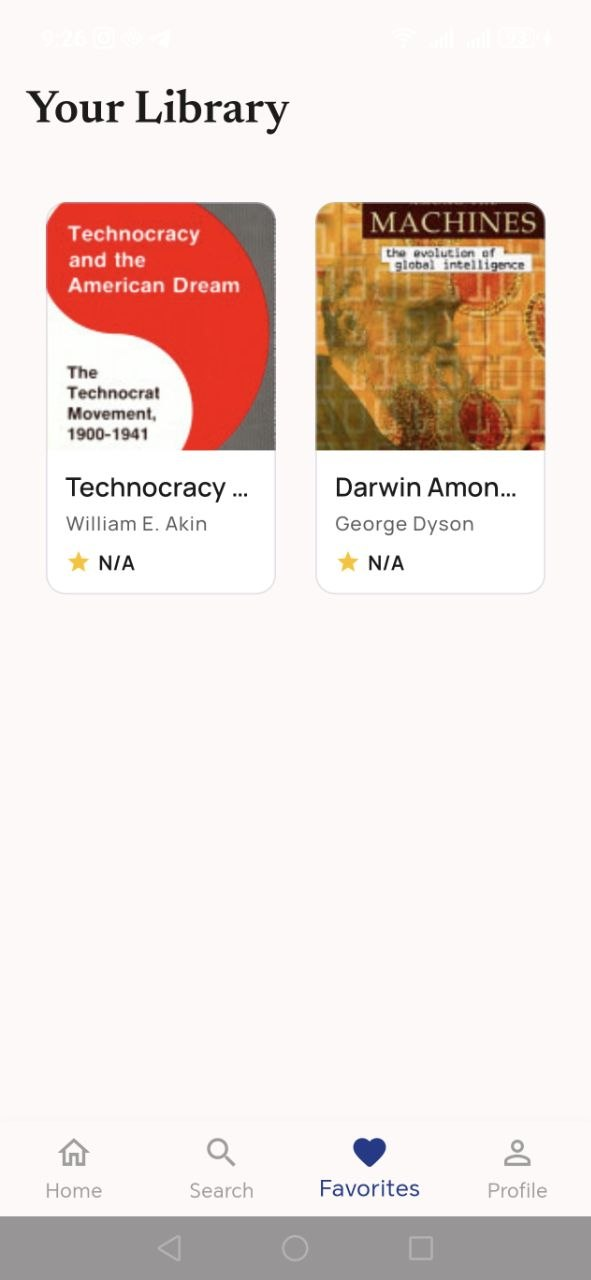
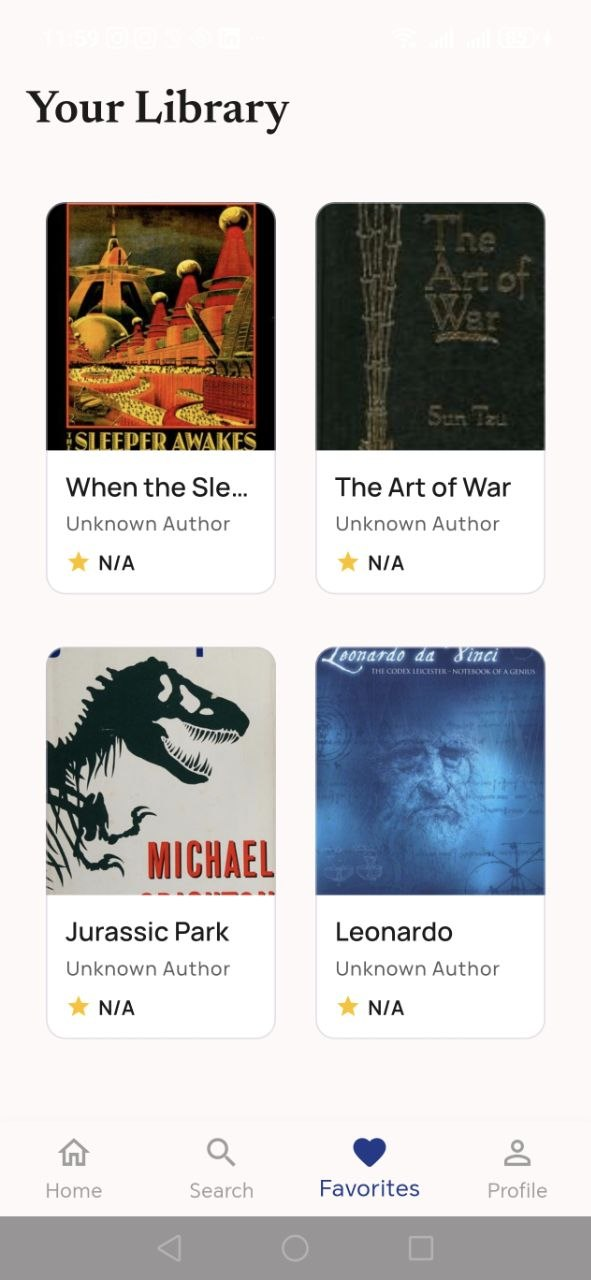
add new image

diff --git a/lib/models/book_model.dart b/lib/models/book_model.dart
@@ -20,37 +20,74 @@ class BookModel {
   });
 
   factory BookModel.fromJson(Map<String, dynamic> json) {
-    final volumeInfo = json['volumeInfo'] as Map<String, dynamic>? ?? {};
-    
-    // Parse authors
-    final authorsList = volumeInfo['authors'] as List<dynamic>? ?? [];
-    final List<String> parsedAuthors = authorsList.map((e) => e.toString()).toList();
+    // Open Library search.json format
+    final title = json['title']?.toString() ?? 'Unknown Title';
 
-    // Parse categories
-    final categoriesList = volumeInfo['categories'] as List<dynamic>? ?? [];
-    final List<String> parsedCategories = categoriesList.map((e) => e.toString()).toList();
-
-    // Parse image links
-    final imageLinks = volumeInfo['imageLinks'] as Map<String, dynamic>? ?? {};
-    String thumbnailUrl = imageLinks['thumbnail'] ?? imageLinks['smallThumbnail'] ?? '';
-    // Use https for images
-    if (thumbnailUrl.startsWith('http:')) {
-      thumbnailUrl = thumbnailUrl.replaceFirst('http:', 'https:');
+    // Parse authors - can be list of strings or list of author objects
+    List<String> parsedAuthors = [];
+    if (json['authors'] != null) {
+      final authorsList = json['authors'] as List;
+      parsedAuthors = authorsList.map((author) {
+        if (author is String) {
+          return author;
+        } else if (author is Map<String, dynamic> && author['name'] != null) {
+          return author['name'].toString();
+        }
+        return 'Unknown Author';
+      }).toList();
     }
 
-    // Parse rating
+    if (parsedAuthors.isEmpty) {
+      parsedAuthors = ['Unknown Author'];
+    }
+
+    // Parse description
+    String description = 'No description available.';
+    if (json['description'] != null) {
+      if (json['description'] is String) {
+        description = json['description'];
+      } else if (json['description'] is Map<String, dynamic>) {
+        description =
+            json['description']['value']?.toString() ??
+            'No description available.';
+      }
+    }
+
+    // Parse cover image
+    String thumbnailUrl = '';
+    if (json['cover_i'] != null) {
+      final coverId = json['cover_i'];
+      thumbnailUrl = 'https://covers.openlibrary.org/b/id/$coverId-L.jpg';
+    } else if (json['cover_edition_key'] != null) {
+      // Fallback: try to get cover by edition key (less reliable)
+      thumbnailUrl = '';
+    }
+
+    // Parse published date
+    String publishedDate = 'Unknown';
+    if (json['first_publish_year'] != null) {
+      publishedDate = json['first_publish_year'].toString();
+    } else if (json['publish_date'] != null) {
+      publishedDate = json['publish_date'].toString();
+    }
+
+    // Parse categories/subjects
+    List<String> parsedCategories = [];
+    if (json['subject'] != null) {
+      final subjectsList = json['subject'] as List;
+      parsedCategories = subjectsList.take(5).map((e) => e.toString()).toList();
+    }
+
+    // Open Library doesn't provide ratings in search results
     double parsedRating = 0.0;
-    if (volumeInfo['averageRating'] != null) {
-      parsedRating = (volumeInfo['averageRating'] as num).toDouble();
-    }
 
     return BookModel(
-      id: json['id'] ?? '',
-      title: volumeInfo['title'] ?? 'Unknown Title',
+      id: json['key']?.toString() ?? json['edition_key']?.toString() ?? '',
+      title: title,
       authors: parsedAuthors,
-      description: volumeInfo['description'] ?? 'No description available.',
+      description: description,
       thumbnail: thumbnailUrl,
-      publishedDate: volumeInfo['publishedDate'] ?? 'Unknown',
+      publishedDate: publishedDate,
       rating: parsedRating,
       categories: parsedCategories,
     );
@@ -66,10 +103,8 @@ class BookModel {
         'publishedDate': publishedDate,
         'averageRating': rating,
         'categories': categories,
-        'imageLinks': {
-          'thumbnail': thumbnail,
-        }
-      }
+        'imageLinks': {'thumbnail': thumbnail},
+      },
     };
   }
 }

diff --git a/lib/services/api_service.dart b/lib/services/api_service.dart
@@ -4,21 +4,24 @@ import '../core/constants/api_constants.dart';
 import '../models/book_model.dart';
 
 class ApiService {
-  Future<List<BookModel>> searchBooks(String query, {int startIndex = 0, int maxResults = 20}) async {
+  Future<List<BookModel>> searchBooks(
+    String query, {
+    int startIndex = 0,
+    int maxResults = 20,
+  }) async {
     try {
-      final apiKeyParam = ApiConstants.apiKey.isNotEmpty ? '&key=${ApiConstants.apiKey}' : '';
-      final uri = Uri.parse('${ApiConstants.baseUrl}${ApiConstants.volumesEndpoint}?q=$query&startIndex=$startIndex&maxResults=$maxResults$apiKeyParam');
+      final uri = Uri.parse(
+        '${ApiConstants.baseUrl}${ApiConstants.searchEndpoint}?q=$query&offset=$startIndex&limit=$maxResults',
+      );
       final response = await http.get(uri);
 
       if (response.statusCode == 200) {
         final data = json.decode(response.body);
-        if (data['items'] != null) {
-          final items = data['items'] as List;
-          return items.map((item) => BookModel.fromJson(item)).toList();
+        if (data['docs'] != null) {
+          final docs = data['docs'] as List;
+          return docs.map((doc) => BookModel.fromJson(doc)).toList();
         }
         return [];
-      } else if (response.statusCode == 429) {
-        throw Exception('Rate limit exceeded (429). Please add a Google Books API key in `api_constants.dart` or try again later.');
       } else {
         throw Exception('Failed to load books: ${response.statusCode}');
       }

diff --git a/lib/core/constants/api_constants.dart b/lib/core/constants/api_constants.dart
@@ -1,9 +1,8 @@
 class ApiConstants {
-  static const String baseUrl =
-      'https://www.googleapis.com/books/v1/volumes?q=flutter';
-  static const String volumesEndpoint = 'volumes';
+  static const String baseUrl = 'https://openlibrary.org';
+  static const String searchEndpoint = '/search.json';
+  static const String booksEndpoint = '/api/books';
 
-  // NOTE: If you experience 429 errors (Too Many Requests), provide a Google Books API key here.
-  // Leave it empty to use the unauthenticated API limit (which is very strict).
+  // OpenLibrary API does not require an API key for its standard search endpoint.
   static const String apiKey = '';
 }
